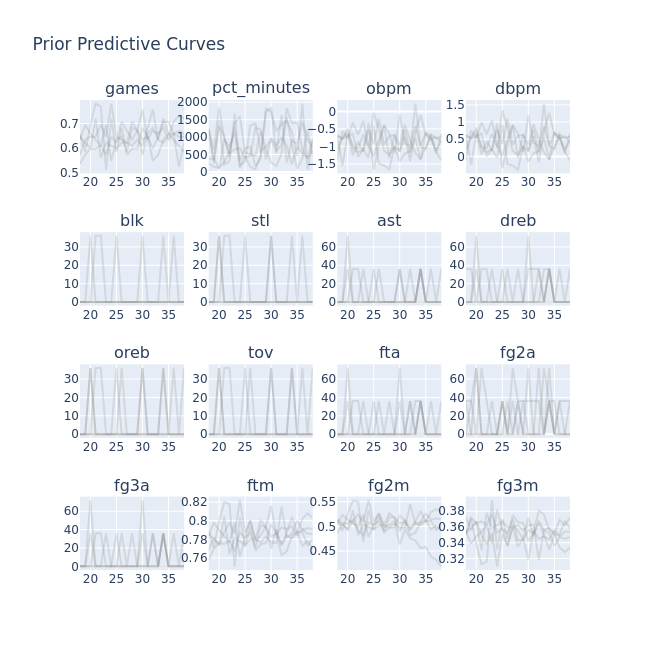
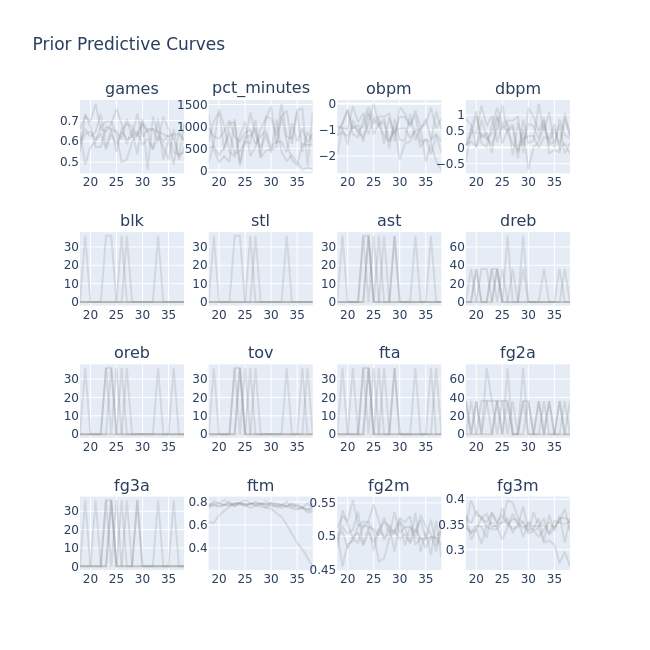
relax prior boundary conditions

diff --git a/model/models.py b/model/models.py
@@ -632,7 +632,7 @@ class ConvexMaxBoundaryTVRFLVM(ConvexTVRFLVM):
         if prior:
             G = (make_convex_phi(t_r, L_time, M_time) - make_convex_phi(t_0, L_time, M_time))[None, None] + (t_0 - t_r) * phi_prime_t_max
             init_weights =  Normal(0, 1).sample(jax.random.PRNGKey(0), sample_shape=((self.m * 2, M_time, num_metrics) ))
-            weights = self.solve_for_weights(init_weights, 1e-3, psi_x, G, boundary_diff, spd)
+            weights = self.solve_for_weights(init_weights, 1e-1, psi_x, G, boundary_diff, spd)
             self.prior["beta"] = weights
         else:
             weights = self.prior["beta"] if not isinstance(self.prior["beta"], Distribution) else sample("beta", self.prior["beta"], sample_shape=(self.m * 2, M_time, num_metrics))
